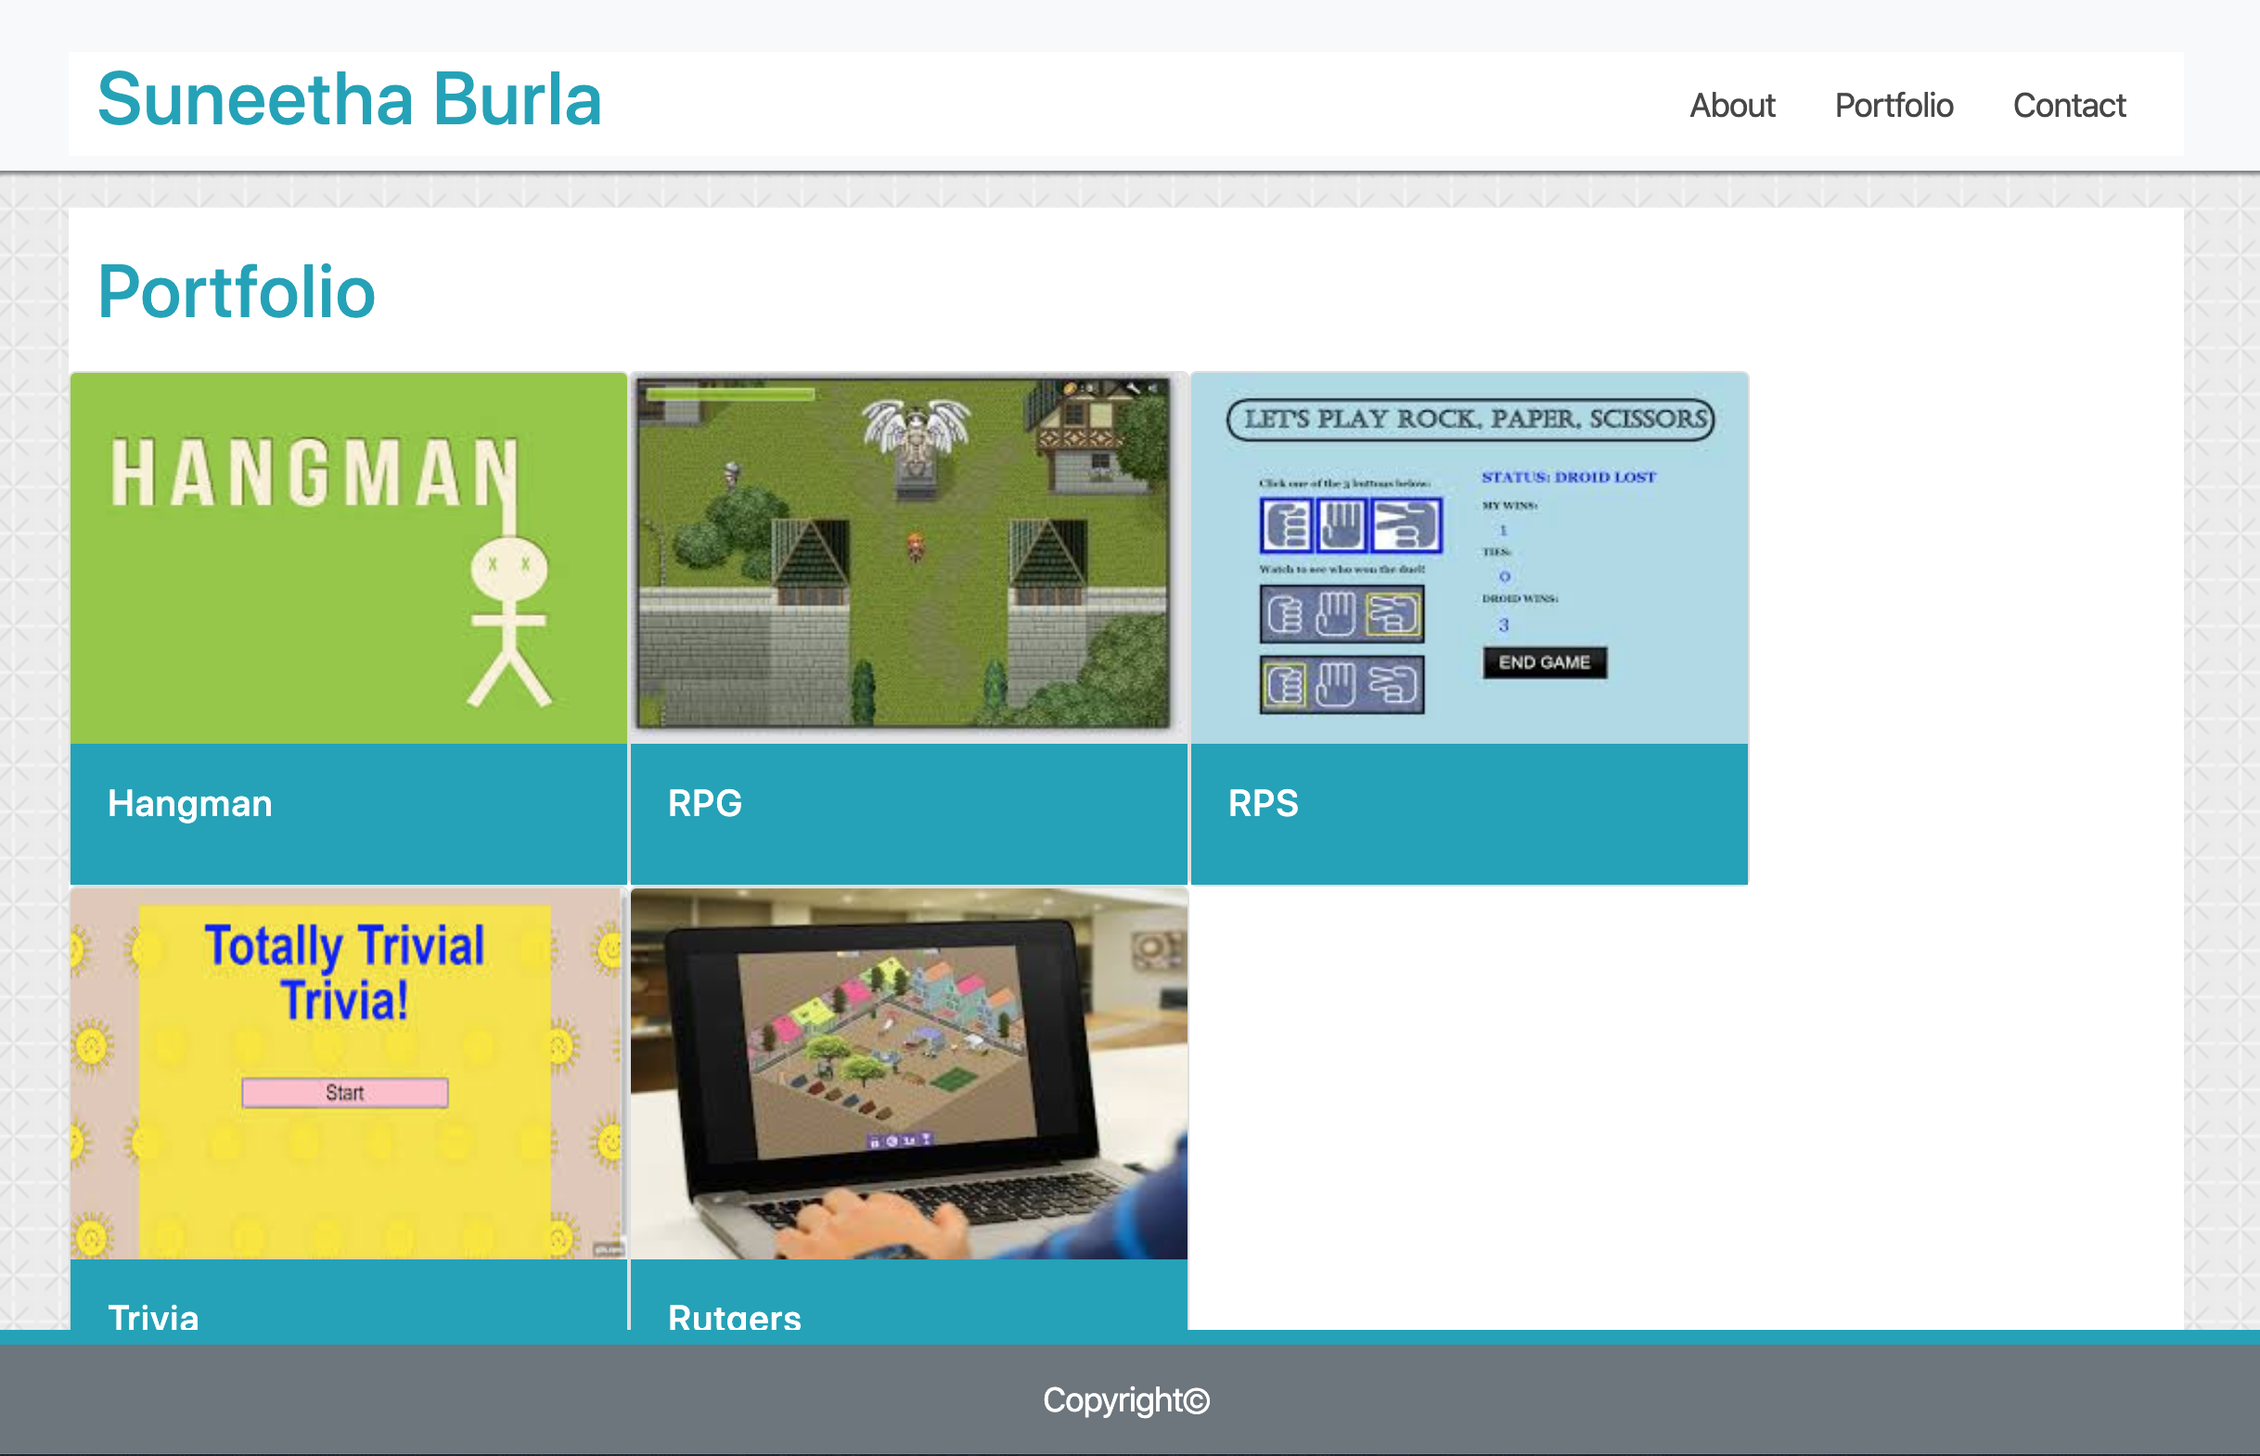
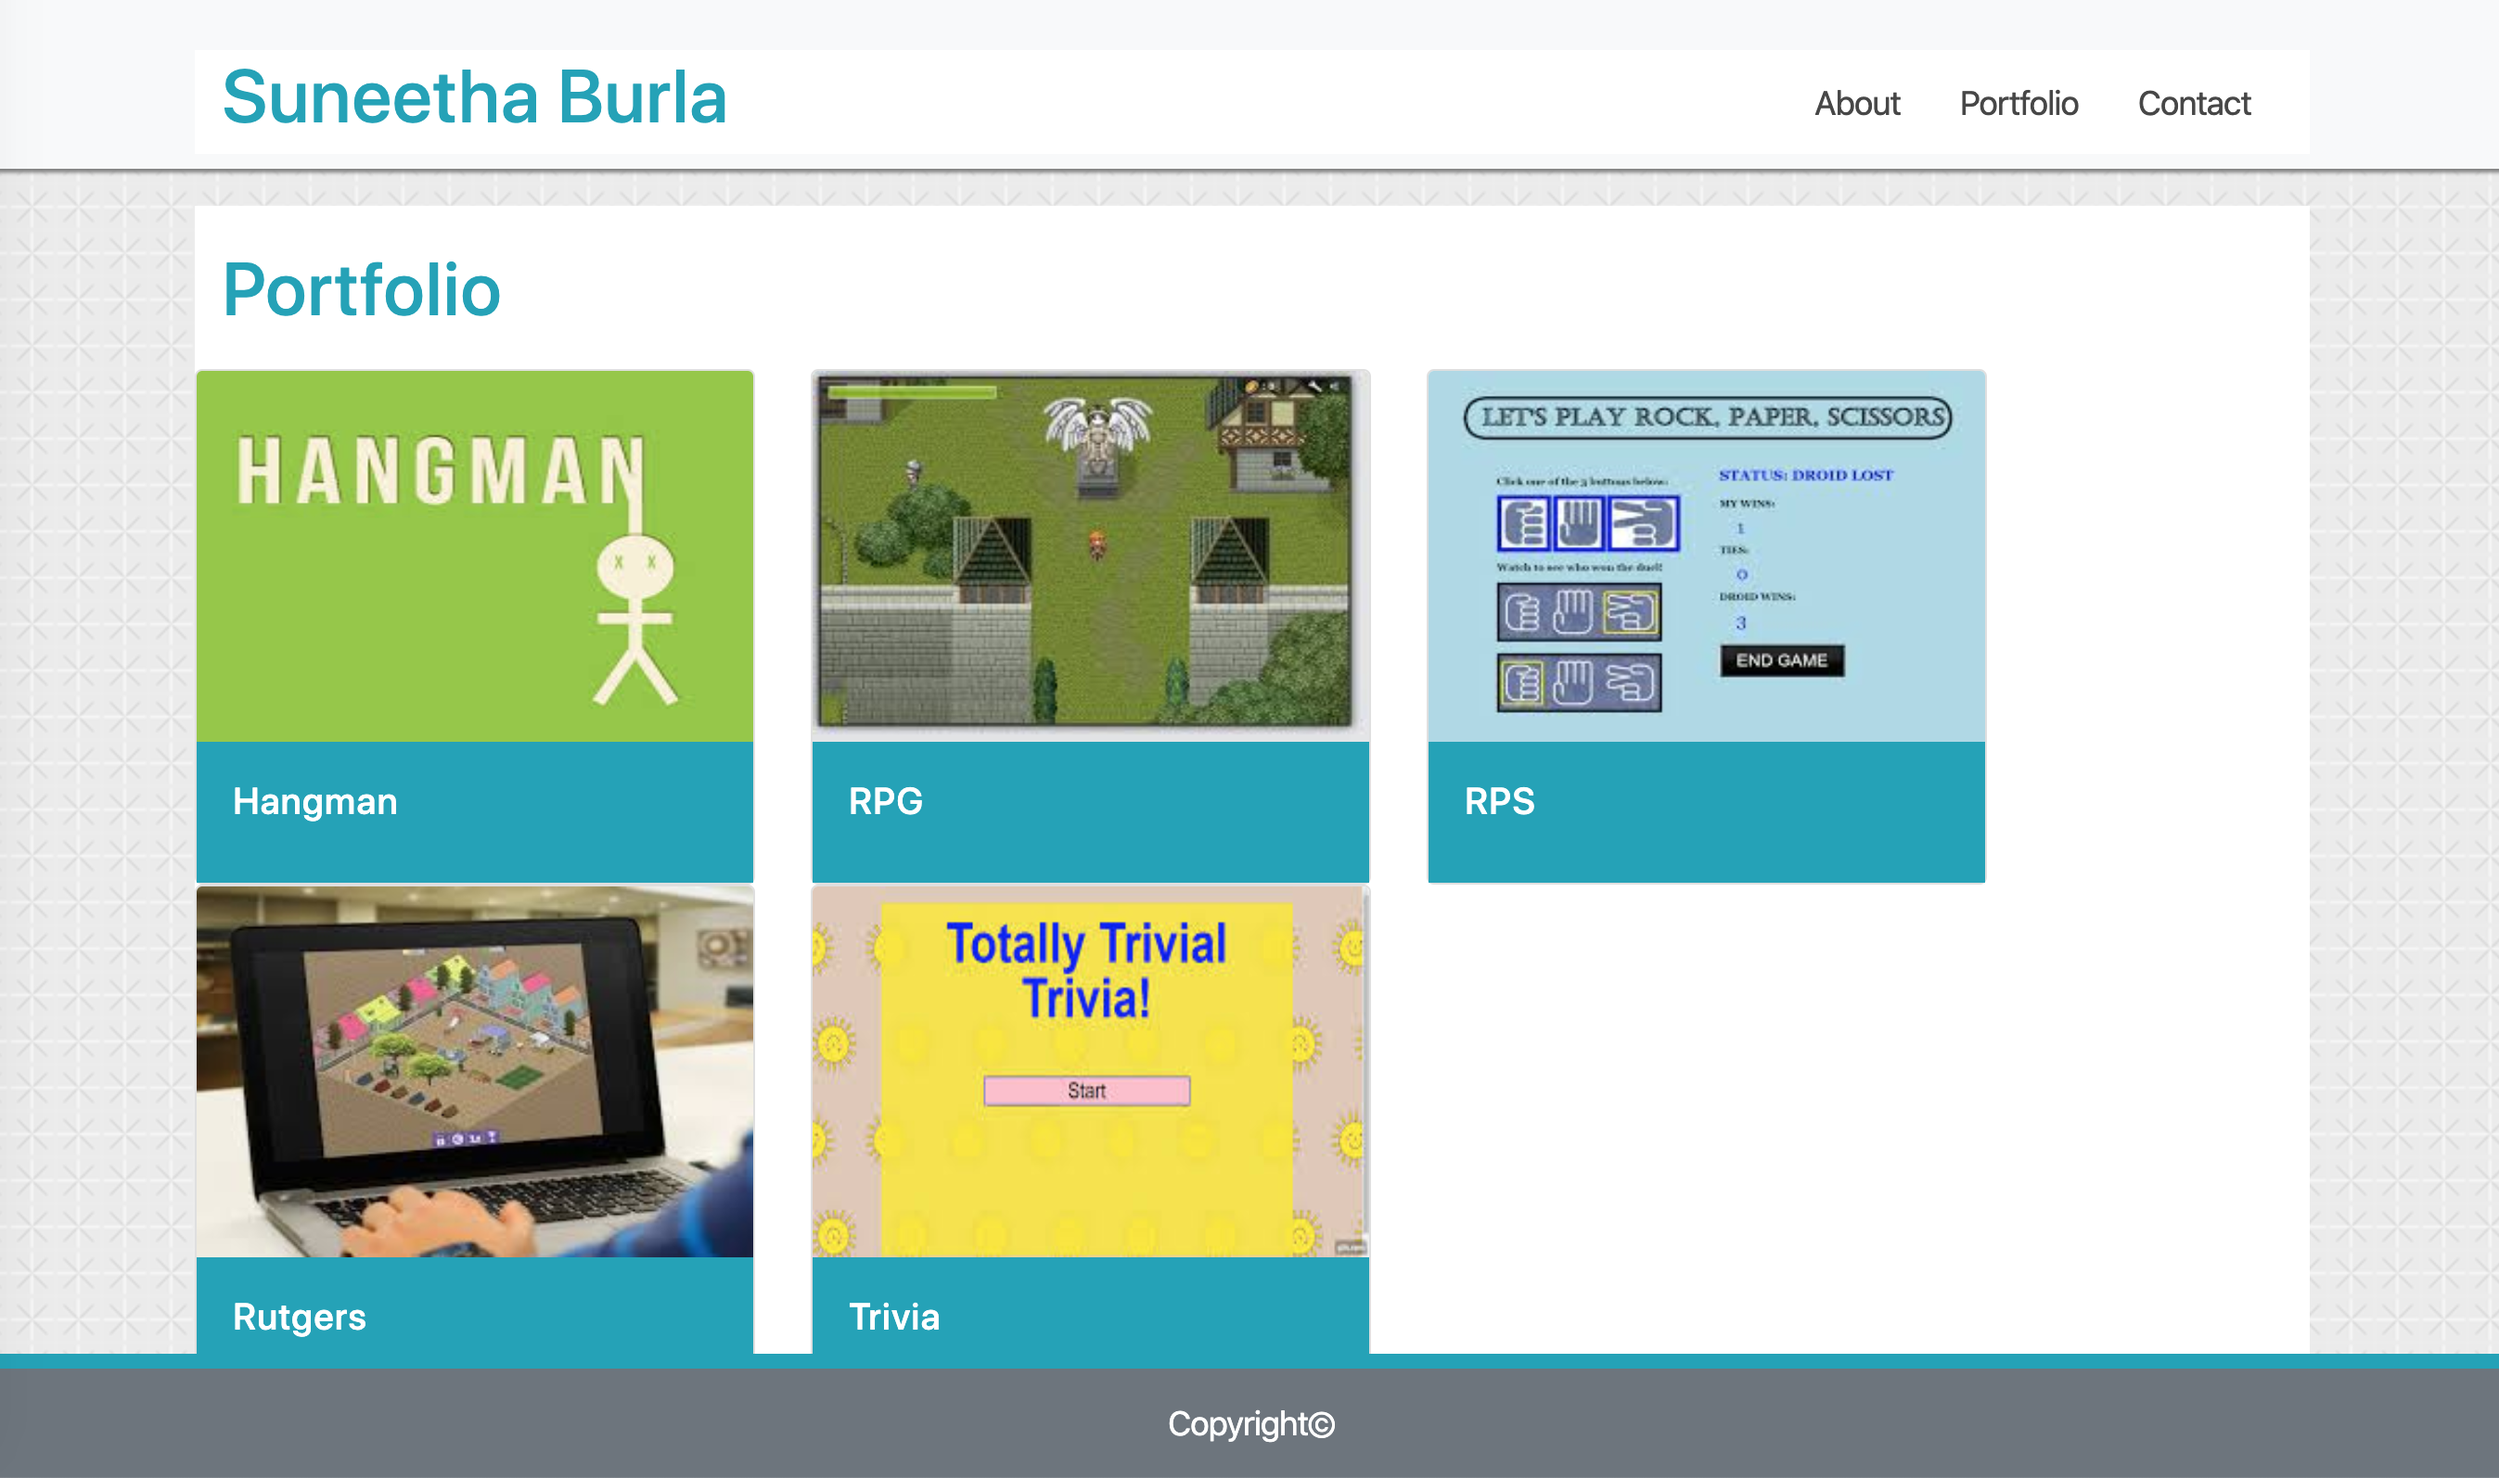
Updated the portfolio html with bootstrap grid system for images

diff --git a/portfolio.html b/portfolio.html
@@ -49,42 +49,57 @@
                 </div>
             </div>
 
+            <div class="row">
+                <div class="col-md-4">
+                    <div class="card">
+                        <a href="#"><img src="assets/images/Hangman.jpeg" style="width: 300px; height: 200px;"
+                                class="card-img-top" alt="Hangman"></a>
+                        <div class="card-body bg-info text-white">
+                            <h5 class="card-title">Hangman</h5>
+                        </div>
+                    </div>
+                </div>
+                <div class="col-md-4">
+                    <div class="card">
+                        <a href="#"><img src="assets/images/RPG.jpeg" style="width: 300px; height: 200px;"
+                                class="card-img-top" alt="RPG"></a>
+                        <div class="card-body bg-info text-white">
+                            <h5 class="card-title">RPG</h5>
+                        </div>
+                    </div>
+                </div>
+                <div class="col-md-4">
+                    <div class="card">
+                        <a href="#"><img src="assets/images/RPS.jpeg" style="width: 300px; height: 200px;"
+                                class="card-img-top" alt="RPS"></a>
+                        <div class="card-body bg-info text-white">
+                            <h5 class="card-title">RPS</h5>
+                        </div>
+                    </div>
+                </div>
+            </div>
+        
+            <div class="row">
+                <div class="col-md-6">
+                    <div class="card">
+                        <a href="#"><img src="assets/images/Rutgers.jpeg" style="width: 300px; height: 200px;"
+                                class="card-img-top" alt="Rutgers"></a>
+                        <div class="card-body bg-info text-white">
+                            <h5 class="card-title">Rutgers</h5>
+                        </div>
+                    </div>
+                </div>
+                <div class="col-md-6">
+                    <div class="card">
+                        <a href="#"><img src="assets/images/Trivia.jpeg" style="width: 300px; height: 200px;"
+                                class="card-img-top" alt="Trivia"></a>
+                        <div class="card-body bg-info text-white">
+                            <h5 class="card-title">Trivia</h5>
+                        </div>
+                    </div>
+                </div>
+            </div>
 
-            <div class="card float-left">
-                <a href="#"><img src="assets/images/Hangman.jpeg" style="width: 300px; height: 200px;"
-                        class="card-img-top" alt="Hangman"></a>
-                <div class="card-body bg-info text-white">
-                    <h5 class="card-title">Hangman</h5>
-                </div>
-            </div>
-            <div class="card float-left">
-                <a href="#"><img src="assets/images/RPG.jpeg" style="width: 300px; height: 200px;" class="card-img-top"
-                        alt="RPG"></a>
-                <div class="card-body bg-info text-white">
-                    <h5 class="card-title">RPG</h5>
-                </div>
-            </div>
-            <div class="card float-left">
-                <a href="#"><img src="assets/images/RPS.jpeg" style="width: 300px; height: 200px;" class="card-img-top"
-                        alt="RPS"></a>
-                <div class="card-body bg-info text-white">
-                    <h5 class="card-title">RPS</h5>
-                </div>
-            </div>
-            <div class="card float-left">
-                <a href="#"><img src="assets/images/Trivia.jpeg" style="width: 300px; height: 200px;"
-                        class="card-img-top" alt="Trivia"></a>
-                <div class="card-body bg-info text-white">
-                    <h5 class="card-title">Trivia</h5>
-                </div>
-            </div>
-            <div class="card float-left">
-                <a href="#"><img src="assets/images/Rutgers.jpeg" style="width: 300px; height: 200px;"
-                        class="card-img-top" alt="Rutgers"></a>
-                <div class="card-body bg-info text-white">
-                    <h5 class="card-title">Rutgers</h5>
-                </div>
-            </div>
         </div>
 
     </div>
